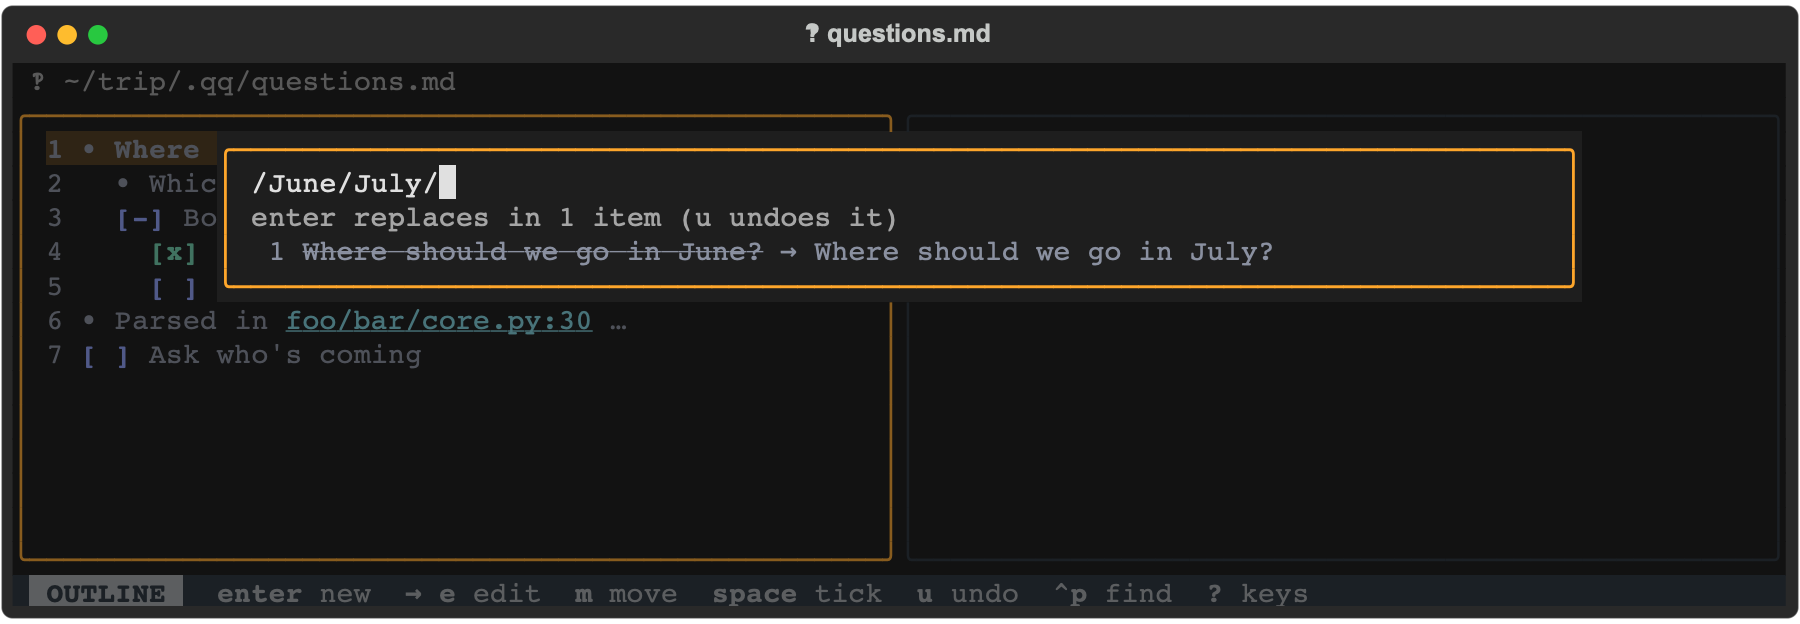
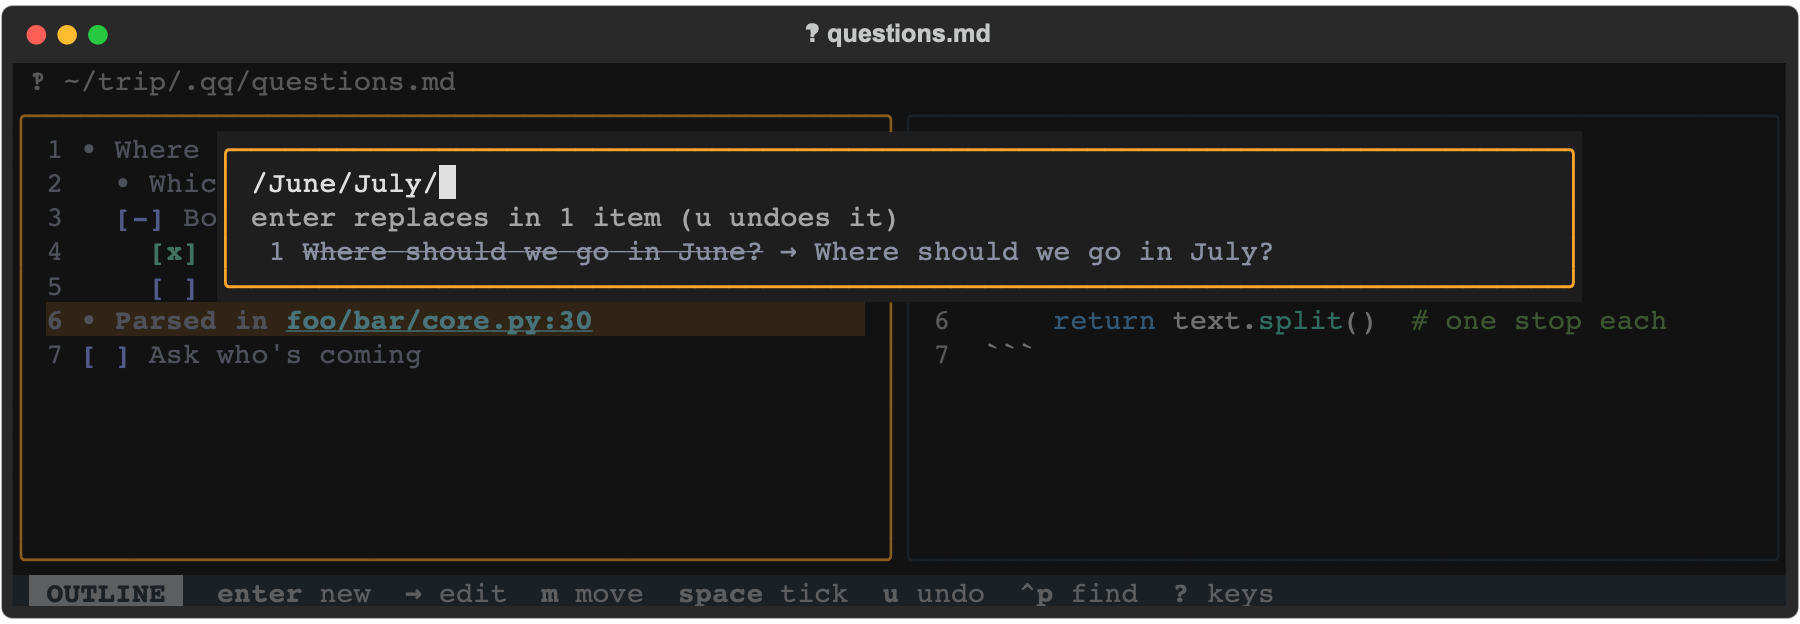
Update the canvas for the settled keys and the release
Fresh screenshots of the two panes, ticks and the palette; the boards
cover tab folding, m and shift+arrows, WASD, ctrl+d twice, :34:12, the
coloured editor, and 0.1.0 on PyPI.

Claude-Session: https://claude.ai/code/session_01FX8i4hcNo9DpFainriXEZ5

diff --git a/docs/canvas/project/Main.dc.html b/docs/canvas/project/Main.dc.html
@@ -28,30 +28,36 @@ a{color:#3446C4}a:hover{color:#232F8A}
 <div style="display: flex; flex-direction: column; gap: 4px; padding: 10px 12px; border: 1px solid #D5D8CF; border-radius: 6px; background: #FBFBF8"><span style="font-family: 'IBM Plex Mono', Menlo, monospace; font-size: 14px; font-weight: 500; color: {{accent}}">m</span><span style="font-size: 13px; color: #5A606B">pick up and carry</span></div>
 <div style="display: flex; flex-direction: column; gap: 4px; padding: 10px 12px; border: 1px solid #D5D8CF; border-radius: 6px; background: #FBFBF8"><span style="font-family: 'IBM Plex Mono', Menlo, monospace; font-size: 14px; font-weight: 500; color: #1E7558">space</span><span style="font-size: 13px; color: #5A606B">tick</span></div>
 <div style="display: flex; flex-direction: column; gap: 4px; padding: 10px 12px; border: 1px solid #D5D8CF; border-radius: 6px; background: #FBFBF8"><span style="font-family: 'IBM Plex Mono', Menlo, monospace; font-size: 14px; font-weight: 500; color: {{accent}}">ctrl+p</span><span style="font-size: 13px; color: #5A606B">find, go to, replace</span></div>
-<div style="display: flex; flex-direction: column; gap: 4px; padding: 10px 12px; border: 1px solid #D5D8CF; border-radius: 6px; background: #FBFBF8"><span style="font-family: 'IBM Plex Mono', Menlo, monospace; font-size: 14px; font-weight: 500; color: #5A606B">u</span><span style="font-size: 13px; color: #5A606B">undo</span></div>
+<div style="display: flex; flex-direction: column; gap: 4px; padding: 10px 12px; border: 1px solid #D5D8CF; border-radius: 6px; background: #FBFBF8"><span style="font-family: 'IBM Plex Mono', Menlo, monospace; font-size: 14px; font-weight: 500; color: {{accent}}">tab</span><span style="font-size: 13px; color: #5A606B">fold, as in org-mode</span></div>
 </div>
-<p style="margin: 0; font-size: 14px; line-height: 1.5; color: #5A606B">The outline on the left is for moving and arranging: its keys are commands and never type. The editor on the right is where you type. The key bar names the mode: <span style="font-family: 'IBM Plex Mono', Menlo, monospace; color: #181B20">OUTLINE · EDIT · NEW · MOVE</span>. <b style="font-weight: 500; color: #181B20">?</b> lists every key.</p>
+<p style="margin: 0; font-size: 14px; line-height: 1.5; color: #5A606B">The outline on the left is for moving and arranging: its keys are commands and never type. The editor on the right is where you type. The key bar names the mode: <span style="font-family: 'IBM Plex Mono', Menlo, monospace; color: #181B20">OUTLINE · EDIT · NEW · MOVE</span>. <b style="font-weight: 500; color: #181B20">u</b> undoes, <b style="font-weight: 500; color: #181B20">w a s d</b> work as the arrows, <b style="font-weight: 500; color: #181B20">ctrl+d</b> twice quits, and <b style="font-weight: 500; color: #181B20">?</b> lists every key.</p>
 <div style="margin-top: auto; display: flex; gap: 28px; font-size: 14px; color: #5A606B">
 <span><b style="color: #181B20; font-weight: 500">core/</b> has no UI code</span>
-<span>package <b style="color: #181B20; font-weight: 500">question-queue</b></span>
+<span><b style="color: #181B20; font-weight: 500; font-family: 'IBM Plex Mono', Menlo, monospace; font-size: 13px">uv tool install question-queue</b></span>
+<span>MIT</span>
 </div>
 </div>
 <div style="display: flex; flex-direction: column; gap: 12px; min-width: 0">
 <span style="font-family: 'IBM Plex Mono', Menlo, monospace; font-size: 13px; letter-spacing: 0.08em; text-transform: uppercase; color: #5A606B">In the terminal</span>
 <div style="border-radius: 8px; overflow: hidden; background: #121417">
-<img src="/_blob/85d30a10451a031949d775d5c031e88b" alt="qq with the outline on the left (a partly ticked Book it shown as [-], and an underlined foo/bar/core.py:30) and the first item's whole text being edited on the right" style="width: 100%; display: block">
+<img src="/_blob/ccc7a13fcfa105e3981d568dbd63f263" alt="qq with the outline on the left (a partly ticked Book it shown as [-], and an underlined foo/bar/core.py:30) and item 6 being edited on the right: numbered lines, a bold first line and a fenced Python block in colour" style="width: 100%; display: block">
 </div>
 <span style="font-family: 'IBM Plex Mono', Menlo, monospace; font-size: 13px; letter-spacing: 0.08em; text-transform: uppercase; color: #5A606B; margin-top: 6px">Saved as .qq/questions.md</span>
-<div style="flex-grow: 1; display: flex; flex-direction: column; background: #1C2027; color: #D9DCE3; border-radius: 8px; padding: 18px 22px; font-family: 'IBM Plex Mono', Menlo, monospace; font-size: 13.5px; line-height: 1.7; overflow: hidden">
+<div style="flex-grow: 1; display: flex; flex-direction: column; background: #1C2027; color: #D9DCE3; border-radius: 8px; padding: 14px 20px; font-family: 'IBM Plex Mono', Menlo, monospace; font-size: 12.5px; line-height: 1.6; overflow: hidden">
 <div style="padding-left: 0ch; white-space: pre"><span style="color: #8A90A0">-</span> Where should we go in June? <span style="color: #6B7182">&lt;!-- q:a1b2 --&gt;</span></div>
-<div style="padding-left: 2ch; white-space: pre; color: #B9C0CE">Somewhere by the sea, with good walks.</div>
+<div style="padding-left: 2ch; white-space: pre; color: #B9C0CE">Somewhere by the sea, with **good walks**.</div>
 <div style="padding-left: 2ch; white-space: pre; color: #B9C0CE">The map is in notes/trip.md:12</div>
 <div style="padding-left: 2ch; white-space: pre"><span style="color: #8A90A0">-</span> Which stretch of coast? <span style="color: #6B7182">&lt;!-- q:c3d4 --&gt;</span></div>
 <div style="padding-left: 2ch; white-space: pre"><span style="color: #8A90A0">-</span> <b style="color: #8FA0FF">[ ]</b> Book it <span style="color: #6B7182">&lt;!-- q:b0b0 --&gt;</span></div>
 <div style="padding-left: 4ch; white-space: pre"><span style="color: #8A90A0">-</span> <b style="color: #6FD3AE">[x]</b> <span style="color: #9AA0AE">Trains, by the end of March</span> <span style="color: #6B7182">&lt;!-- q:e5f6 --&gt;</span></div>
 <div style="padding-left: 4ch; white-space: pre"><span style="color: #8A90A0">-</span> <b style="color: #8FA0FF">[ ]</b> Somewhere to stay <span style="color: #6B7182">&lt;!-- q:f0f0 --&gt;</span></div>
 <div style="padding-left: 0ch; white-space: pre"><span style="color: #8A90A0">-</span> Parsed in foo/bar/core.py:30 <span style="color: #6B7182">&lt;!-- q:g7h8 --&gt;</span></div>
-<div style="padding-left: 2ch; white-space: pre; color: #B9C0CE">Next to the parser.</div>
+<div style="padding-left: 2ch; white-space: pre; color: #B9C0CE">Next to the parser:</div>
+<div style="padding-left: 2ch; white-space: pre; color: #B9C0CE"> </div>
+<div style="padding-left: 2ch; white-space: pre; color: #B9C0CE">```python</div>
+<div style="padding-left: 2ch; white-space: pre; color: #B9C0CE">def parse(text):</div>
+<div style="padding-left: 2ch; white-space: pre; color: #B9C0CE">    return text.split()  # one stop each</div>
+<div style="padding-left: 2ch; white-space: pre; color: #B9C0CE">```</div>
 <div style="padding-left: 0ch; white-space: pre"><span style="color: #8A90A0">-</span> <b style="color: #8FA0FF">[ ]</b> Ask who's coming <span style="color: #6B7182">&lt;!-- q:i9j0 --&gt;</span></div>
 </div>
 <p style="margin: 0; font-size: 14px; line-height: 1.5; color: #5A606B">IDs are hidden in qq. Lines it doesn't recognise, and items you haven't changed, are written back exactly as they were.</p>

diff --git a/docs/canvas/project/Tried.dc.html b/docs/canvas/project/Tried.dc.html
@@ -17,7 +17,7 @@ a{color:#3446C4}a:hover{color:#232F8A}
 <div style="width: 1200px; height: 760px; box-sizing: border-box; padding: 40px 48px; background: #F2F3EF; color: #181B20; font-family: 'IBM Plex Sans', 'Helvetica Neue', sans-serif; display: flex; flex-direction: column; gap: 20px">
 <div style="display: flex; align-items: baseline; justify-content: space-between; gap: 24px">
 <h1 style="margin: 0; font-family: 'Bricolage Grotesque', 'Helvetica Neue', sans-serif; font-size: 44px; font-weight: 600; line-height: 1.05">What we've tried</h1>
-<span style="font-size: 15px; color: #5A606B">The TUI, four ways, all on 13 Oct 2026</span>
+<span style="font-size: 15px; color: #5A606B">The TUI, four ways, all on 13 Oct 2026. Out as 0.1.0 the same evening.</span>
 </div>
 <div style="display: grid; grid-template-columns: repeat(4, minmax(0, 1fr)); gap: 22px; flex-grow: 1; min-height: 0">
 
@@ -78,7 +78,7 @@ a{color:#3446C4}a:hover{color:#232F8A}
 <h2 style="margin: 0; font-family: 'Bricolage Grotesque', 'Helvetica Neue', sans-serif; font-size: 21px; font-weight: 600">An outliner in two panes</h2>
 </div>
 <div style="height: 150px; border-radius: 8px; overflow: hidden; background: #1C2027; display: flex; align-items: center; justify-content: center">
-<img src="/_blob/85d30a10451a031949d775d5c031e88b" alt="The outline on the left and the selected item's whole text on the right" style="width: 100%; height: 100%; object-fit: contain; display: block">
+<img src="/_blob/ccc7a13fcfa105e3981d568dbd63f263" alt="The outline on the left and the selected item's whole text on the right" style="width: 100%; height: 100%; object-fit: contain; display: block">
 </div>
 <ul style="margin: 0; padding-left: 18px; font-size: 13.5px; line-height: 1.45; color: #3A3F48">
 <li>Items, not questions and answers; a first line and a body, like a commit</li>
@@ -90,26 +90,30 @@ a{color:#3446C4}a:hover{color:#232F8A}
 </div>
 <div style="display: flex; flex-direction: column; gap: 10px">
 <span style="font-family: 'IBM Plex Mono', Menlo, monospace; font-size: 12px; letter-spacing: 0.08em; text-transform: uppercase; color: #5A606B">Since the two panes</span>
-<div style="display: grid; grid-template-columns: repeat(5, minmax(0, 1fr)); gap: 12px">
+<div style="display: grid; grid-template-columns: repeat(6, minmax(0, 1fr)); gap: 10px">
 <div style="display: flex; flex-direction: column; gap: 4px; padding: 12px 14px; background: #FFFFFF; border: 1px solid #D5D8CF; border-radius: 8px">
-<b style="font-size: 14px; font-weight: 500">Arrow keys</b>
-<span style="font-size: 13px; line-height: 1.45; color: #3A3F48">← folds or goes to the parent. → unfolds, or edits: the editor is the pane to the right.</span>
+<b style="font-size: 14px; font-weight: 500">Arrows and folding</b>
+<span style="font-size: 13px; line-height: 1.45; color: #3A3F48">→ edits and ← goes to the parent. <span style="font-family: 'IBM Plex Mono', Menlo, monospace">tab</span> folds, <span style="font-family: 'IBM Plex Mono', Menlo, monospace">shift+tab</span> folds everything, as in org-mode.</span>
+</div>
+<div style="display: flex; flex-direction: column; gap: 4px; padding: 12px 14px; background: #FFFFFF; border: 1px solid #D5D8CF; border-radius: 8px">
+<b style="font-size: 14px; font-weight: 500">Moving</b>
+<span style="font-size: 13px; line-height: 1.45; color: #3A3F48"><span style="font-family: 'IBM Plex Mono', Menlo, monospace">m</span> picks an item up; shift+arrows nudge it with no mode. A run of moves is one undo.</span>
 </div>
 <div style="display: flex; flex-direction: column; gap: 4px; padding: 12px 14px; background: #FFFFFF; border: 1px solid #D5D8CF; border-radius: 8px">
 <b style="font-size: 14px; font-weight: 500">The palette</b>
-<span style="font-size: 13px; line-height: 1.45; color: #3A3F48">ctrl+p, vim-style: <span style="font-family: 'IBM Plex Mono', Menlo, monospace">/find</span>, <span style="font-family: 'IBM Plex Mono', Menlo, monospace">//everywhere</span>, <span style="font-family: 'IBM Plex Mono', Menlo, monospace">:34</span>, <span style="font-family: 'IBM Plex Mono', Menlo, monospace">/old/new/gi</span>.</span>
+<span style="font-size: 13px; line-height: 1.45; color: #3A3F48">ctrl+p, vim-style: <span style="font-family: 'IBM Plex Mono', Menlo, monospace">/find</span>, <span style="font-family: 'IBM Plex Mono', Menlo, monospace">//everywhere</span>, <span style="font-family: 'IBM Plex Mono', Menlo, monospace">:34</span>, <span style="font-family: 'IBM Plex Mono', Menlo, monospace">:34:12</span>, <span style="font-family: 'IBM Plex Mono', Menlo, monospace">/old/new/gi</span>.</span>
 </div>
 <div style="display: flex; flex-direction: column; gap: 4px; padding: 12px 14px; background: #FFFFFF; border: 1px solid #D5D8CF; border-radius: 8px">
-<b style="font-size: 14px; font-weight: 500">Cascading ticks</b>
-<span style="font-size: 13px; line-height: 1.45; color: #3A3F48">A parent is ticked once all its boxes are, and shows <span style="font-family: 'IBM Plex Mono', Menlo, monospace">[-]</span> while only some are.</span>
+<b style="font-size: 14px; font-weight: 500">Ticks</b>
+<span style="font-size: 13px; line-height: 1.45; color: #3A3F48">Boxes cascade up and down; partly done shows <span style="font-family: 'IBM Plex Mono', Menlo, monospace">[-]</span>. New items get a box.</span>
 </div>
 <div style="display: flex; flex-direction: column; gap: 4px; padding: 12px 14px; background: #FFFFFF; border: 1px solid #D5D8CF; border-radius: 8px">
-<b style="font-size: 14px; font-weight: 500">Clickable references</b>
-<span style="font-size: 13px; line-height: 1.45; color: #3A3F48">Click a <span style="font-family: 'IBM Plex Mono', Menlo, monospace">file:line</span> in the outline and it opens in VS Code.</span>
+<b style="font-size: 14px; font-weight: 500">The editor</b>
+<span style="font-size: 13px; line-height: 1.45; color: #3A3F48">Numbered lines, a bold first line, markdown and fenced code in colour. No help text.</span>
 </div>
 <div style="display: flex; flex-direction: column; gap: 4px; padding: 12px 14px; background: #FFFFFF; border: 1px solid #D5D8CF; border-radius: 8px">
-<b style="font-size: 14px; font-weight: 500">No “Done” label</b>
-<span style="font-size: 13px; line-height: 1.45; color: #3A3F48">The editor shows just the text. The outline's <span style="font-family: 'IBM Plex Mono', Menlo, monospace">[x]</span> already says it's done.</span>
+<b style="font-size: 14px; font-weight: 500">Quicker hands</b>
+<span style="font-size: 13px; line-height: 1.45; color: #3A3F48"><span style="font-family: 'IBM Plex Mono', Menlo, monospace">w a s d</span> as the arrows, <span style="font-family: 'IBM Plex Mono', Menlo, monospace">ctrl+d</span> twice to quit, and a click on a <span style="font-family: 'IBM Plex Mono', Menlo, monospace">file:line</span> opens it.</span>
 </div>
 </div>
 </div>

diff --git a/docs/canvas/project/Decisions.dc.html b/docs/canvas/project/Decisions.dc.html
@@ -22,7 +22,7 @@ a{color:#3446C4}a:hover{color:#232F8A}
 <div style="display: grid; grid-template-columns: repeat(2, minmax(0, 1fr)); gap: 0 48px">
 <div style="display: flex; flex-direction: column; gap: 4px; padding: 12px 0; border-top: 1px solid #D5D8CF">
 <h2 style="margin: 0; font-size: 17px; font-weight: 500">Named so the initials spell the command</h2>
-<p style="margin: 0; font-size: 14px; line-height: 1.45; color: #3A3F48">Question Queue, <span style="font-family: 'IBM Plex Mono', Menlo, monospace">qq</span>. Published as question-queue, because quarry and qq are taken on PyPI.</p>
+<p style="margin: 0; font-size: 14px; line-height: 1.45; color: #3A3F48">Question Queue, <span style="font-family: 'IBM Plex Mono', Menlo, monospace">qq</span>. On PyPI as question-queue (MIT), because quarry and qq are taken.</p>
 </div>
 <div style="display: flex; flex-direction: column; gap: 4px; padding: 12px 0; border-top: 1px solid #D5D8CF">
 <h2 style="margin: 0; font-size: 17px; font-weight: 500">An outliner, not questions and answers</h2>
@@ -34,11 +34,11 @@ a{color:#3446C4}a:hover{color:#232F8A}
 </div>
 <div style="display: flex; flex-direction: column; gap: 4px; padding: 12px 0; border-top: 1px solid #D5D8CF">
 <h2 style="margin: 0; font-size: 17px; font-weight: 500">Two panes keep moving and typing apart</h2>
-<p style="margin: 0; font-size: 14px; line-height: 1.45; color: #3A3F48">Outline keys are commands and never type; the editor is where you type. Replaced the one-mode ctrl-key design.</p>
+<p style="margin: 0; font-size: 14px; line-height: 1.45; color: #3A3F48">Outline keys are commands and never type; the editor is where you type, and → takes you there. Replaced the one-mode ctrl-key design.</p>
 </div>
 <div style="display: flex; flex-direction: column; gap: 4px; padding: 12px 0; border-top: 1px solid #D5D8CF">
 <h2 style="margin: 0; font-size: 17px; font-weight: 500">Capture first, place later</h2>
-<p style="margin: 0; font-size: 14px; line-height: 1.45; color: #3A3F48">enter adds where you are, n adds at the bottom and puts you back, and m makes moving it afterwards easy.</p>
+<p style="margin: 0; font-size: 14px; line-height: 1.45; color: #3A3F48">enter adds where you are, n adds at the bottom and puts you back, and m or shift+arrows move it afterwards.</p>
 </div>
 <div style="display: flex; flex-direction: column; gap: 4px; padding: 12px 0; border-top: 1px solid #D5D8CF">
 <h2 style="margin: 0; font-size: 17px; font-weight: 500">Your file comes back untouched</h2>
@@ -54,7 +54,7 @@ a{color:#3446C4}a:hover{color:#232F8A}
 </div>
 <div style="display: flex; flex-direction: column; gap: 4px; padding: 12px 0; border-top: 1px solid #D5D8CF">
 <h2 style="margin: 0; font-size: 17px; font-weight: 500">Undo is a stack of file snapshots</h2>
-<p style="margin: 0; font-size: 14px; line-height: 1.45; color: #3A3F48">Every change, IDs included, up to 200 deep. Reloading after an outside edit clears it.</p>
+<p style="margin: 0; font-size: 14px; line-height: 1.45; color: #3A3F48">Every change, IDs included, up to 200 deep; a run of moves of one item is one step. Reloading after an outside edit clears it.</p>
 </div>
 <div style="display: flex; flex-direction: column; gap: 4px; padding: 12px 0; border-top: 1px solid #D5D8CF">
 <h2 style="margin: 0; font-size: 17px; font-weight: 500">Never overwrite someone else's edit</h2>

diff --git a/docs/canvas/project/Palette.dc.html b/docs/canvas/project/Palette.dc.html
@@ -35,6 +35,9 @@ a{color:#3446C4}a:hover{color:#232F8A}
 <div style="padding: 9px 12px; border-top: 1px solid #E3E5DD; font-family: 'IBM Plex Mono', Menlo, monospace; font-size: 14px; color: {{accent}}; white-space: nowrap">:34</div>
 <div style="padding: 9px 12px; border-top: 1px solid #E3E5DD; font-size: 14px; line-height: 1.4; color: #3A3F48">go to item 34</div>
 <div style="padding: 9px 12px; border-top: 1px solid #E3E5DD; font-size: 14px; line-height: 1.4; color: #3A3F48">go to line 34</div>
+<div style="padding: 9px 12px; border-top: 1px solid #E3E5DD; font-family: 'IBM Plex Mono', Menlo, monospace; font-size: 14px; color: {{accent}}; white-space: nowrap">:34:12</div>
+<div style="padding: 9px 12px; border-top: 1px solid #E3E5DD; font-size: 14px; line-height: 1.4; color: #3A3F48">edit item 34 at line 12</div>
+<div style="padding: 9px 12px; border-top: 1px solid #E3E5DD; font-size: 14px; line-height: 1.4; color: #3A3F48">the same</div>
 <div style="padding: 9px 12px; border-top: 1px solid #E3E5DD; font-family: 'IBM Plex Mono', Menlo, monospace; font-size: 14px; color: {{accent}}; white-space: nowrap">/old/new/</div>
 <div style="padding: 9px 12px; border-top: 1px solid #E3E5DD; font-size: 14px; line-height: 1.4; color: #3A3F48">replace in every item</div>
 <div style="padding: 9px 12px; border-top: 1px solid #E3E5DD; font-size: 14px; line-height: 1.4; color: #3A3F48">replace in this item</div>
@@ -53,7 +56,7 @@ a{color:#3446C4}a:hover{color:#232F8A}
 <div style="display: flex; flex-direction: column; gap: 12px; min-width: 0">
 <span style="font-family: 'IBM Plex Mono', Menlo, monospace; font-size: 13px; letter-spacing: 0.08em; text-transform: uppercase; color: #5A606B">A replace, before enter</span>
 <div style="border-radius: 8px; overflow: hidden; background: #121417">
-<img src="/_blob/b757953da2ee7953739885e8ef63d4b5" alt="The palette over the outline with /June/July/ typed: enter replaces in 1 item (u undoes it), and the old first line struck through with the new one after it" style="width: 100%; display: block">
+<img src="/_blob/e48cba0d7f6f55df438fa13d345cf1c7" alt="The palette over the outline with /June/July/ typed: enter replaces in 1 item (u undoes it), and the old first line struck through with the new one after it" style="width: 100%; display: block">
 </div>
 <ul style="margin: 0; padding-left: 18px; font-size: 14px; line-height: 1.55; color: #3A3F48">
 <li>Before enter, it lists the items that will change, old first line struck through and the new one after it.</li>

diff --git a/docs/canvas/project/NextUp.dc.html b/docs/canvas/project/NextUp.dc.html
@@ -24,7 +24,7 @@ a{color:#3446C4}a:hover{color:#232F8A}
 <div style="display: flex; flex-direction: column; gap: 12px; min-width: 0">
 <span style="font-family: 'IBM Plex Mono', Menlo, monospace; font-size: 13px; letter-spacing: 0.08em; text-transform: uppercase; color: #5A606B">In the outline</span>
 <div style="border-radius: 8px; overflow: hidden; background: #121417">
-<img src="/_blob/94ecacdd70dc1f2cbffd38affbd855a0" alt="The outline with Book it shown as [-] because one of its two boxes is ticked, and foo/bar/core.py:30 underlined" style="width: 100%; display: block">
+<img src="/_blob/4c727be92b8afa04c0b43d4ab8bfdd0b" alt="The outline with Book it shown as [-] because one of its two boxes is ticked, and foo/bar/core.py:30 underlined" style="width: 100%; display: block">
 </div>
 <span style="font-family: 'IBM Plex Mono', Menlo, monospace; font-size: 13px; letter-spacing: 0.08em; text-transform: uppercase; color: #5A606B; margin-top: 6px">In the file</span>
 <div style="display: flex; flex-direction: column; background: #1C2027; border-radius: 8px; padding: 14px 18px; font-family: 'IBM Plex Mono', Menlo, monospace; font-size: 13px; line-height: 1.7; color: #D9DCE3">
@@ -40,7 +40,7 @@ a{color:#3446C4}a:hover{color:#232F8A}
 <div style="display: flex; flex-direction: column; gap: 8px">
 <h2 style="margin: 0; font-family: 'Bricolage Grotesque', 'Helvetica Neue', sans-serif; font-size: 26px; font-weight: 600">Ticks cascade</h2>
 <ul style="margin: 0; padding-left: 18px; font-size: 15px; line-height: 1.55; color: #3A3F48">
-<li><b style="font-weight: 500; color: #181B20">space</b> ticks or unticks, and everything with a box under it goes the same way. <b style="font-weight: 500; color: #181B20">t</b> adds or removes the box; a plain item gets one when you tick it.</li>
+<li><b style="font-weight: 500; color: #181B20">space</b> ticks or unticks, and everything with a box under it goes the same way. <b style="font-weight: 500; color: #181B20">t</b> adds or removes the box. New items get one, and a plain item gets one when you tick it.</li>
 <li>Up: an item with boxes under it is ticked exactly when all of them are. Untick one and the ticked items above it open again.</li>
 <li>Partly ticked shows <span style="font-family: 'IBM Plex Mono', Menlo, monospace; color: #181B20">[-]</span>. Moving, adding and deleting update both the old place and the new.</li>
 <li>A plain item stops the cascade: boxes under it don't count towards anything above it.</li>

diff --git a/docs/canvas/project/Roadmap.dc.html b/docs/canvas/project/Roadmap.dc.html
@@ -17,7 +17,7 @@ a{color:#3446C4}a:hover{color:#232F8A}
 <div style="width: 1200px; height: 760px; box-sizing: border-box; padding: 56px 64px; background: #F2F3EF; color: #181B20; font-family: 'IBM Plex Sans', 'Helvetica Neue', sans-serif; display: flex; flex-direction: column; gap: 32px">
 <div style="display: flex; align-items: baseline; justify-content: space-between; gap: 24px">
 <h1 style="margin: 0; font-family: 'Bricolage Grotesque', 'Helvetica Neue', sans-serif; font-size: 44px; font-weight: 600; line-height: 1.05">Ideas and next steps</h1>
-<span style="font-size: 15px; color: #5A606B">Each new front end builds on <span style="font-family: 'IBM Plex Mono', Menlo, monospace; color: #181B20">questionqueue.core</span></span>
+<span style="font-size: 15px; color: #5A606B">0.1.0 is on PyPI. Each new front end builds on <span style="font-family: 'IBM Plex Mono', Menlo, monospace; color: #181B20">questionqueue.core</span></span>
 </div>
 <div style="display: grid; grid-template-columns: repeat(4, minmax(0, 1fr)); gap: 16px">
 <div style="display: flex; flex-direction: column; gap: 12px; padding: 20px; background: #FFFFFF; border: 1px solid #D5D8CF; border-radius: 8px; min-width: 0">

diff --git a/docs/canvas/README.md b/docs/canvas/README.md
@@ -16,11 +16,12 @@ reference by `/_blob/<id>` rather than by path:
 - `cut-down.png` → `/_blob/edbf0609bde1c0dd1311039276a3eb2a`
 - `markdown-asking.png` → `/_blob/5442ad0ff325f6b5ce13d05840a9d1df`
 - `built-todos.png` → `/_blob/6e7e068570a0a5a26ac91c1875476400`
-- `two-panes.png` → `/_blob/85d30a10451a031949d775d5c031e88b`
-- `ticks.png` → `/_blob/94ecacdd70dc1f2cbffd38affbd855a0`
-- `palette.png` → `/_blob/b757953da2ee7953739885e8ef63d4b5`
+- `two-panes.png` → `/_blob/ccc7a13fcfa105e3981d568dbd63f263`
+- `ticks.png` → `/_blob/4c727be92b8afa04c0b43d4ab8bfdd0b`
+- `palette.png` → `/_blob/e48cba0d7f6f55df438fa13d345cf1c7`
 
-They're TUI screenshots: Textual's SVG export, rendered and cropped to PNG.
+They're TUI screenshots: Textual's `export_screenshot()` SVG at 104×16,
+rendered with `qlmanage -t -s 1800` and cropped with `sips -c 624 1800`.
 A changed image is a new upload with a new id, so repoint the board.
 
 Boards, in canvas order: `Main` (what qq is, its main keys and the file
